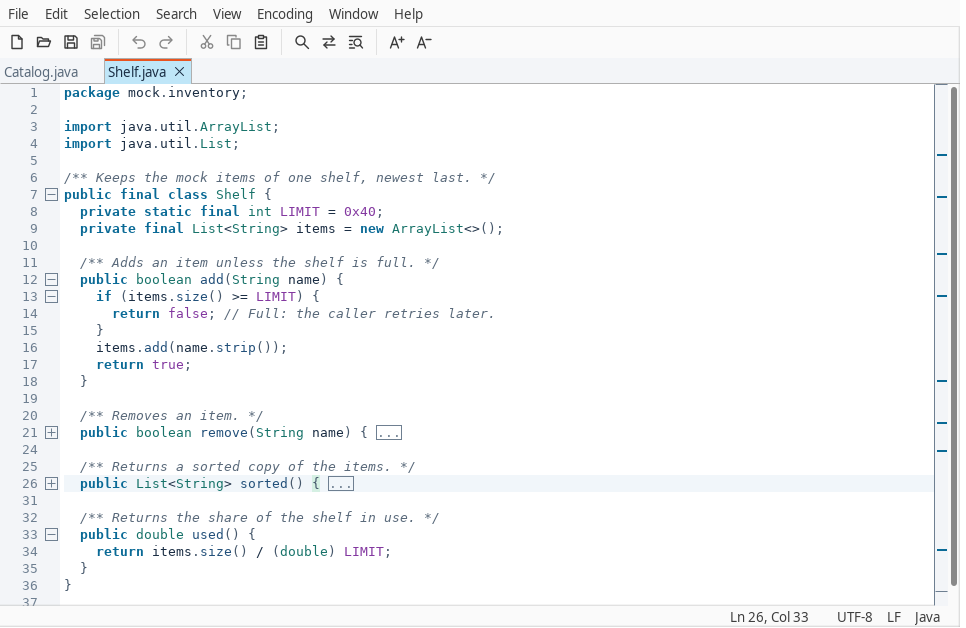
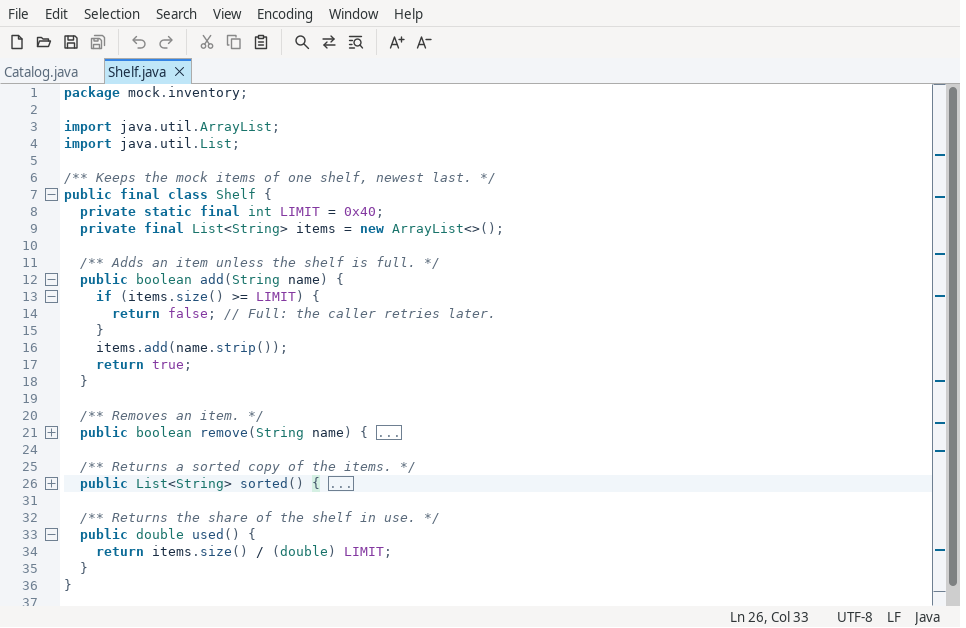
Regenerate the screenshots with the browser and editor display images and bring the Features table and package maps up to date

Changed region(s): [[0.9627, 0.121, 0.9938, 0.9682], [0.1242, 0.0908, 0.1863, 0.121]]

diff --git a/qcaret-ui-swt/src/test/java/io/github/ajdailey/qcaret/ui/swt/GuideScreenshotsTest.java b/qcaret-ui-swt/src/test/java/io/github/ajdailey/qcaret/ui/swt/GuideScreenshotsTest.java
@@ -17,6 +17,7 @@ import io.github.ajdailey.qcaret.app.theme.ThemeMode;
 import io.github.ajdailey.qcaret.app.view.SearchForm;
 import io.github.ajdailey.qcaret.app.view.SearchScope;
 import io.github.ajdailey.qcaret.app.view.WindowGeometry;
+import io.github.ajdailey.qcaret.app.view.WorkspaceNode;
 import io.github.ajdailey.qcaret.core.concurrent.MemoryBudget;
 import io.github.ajdailey.qcaret.core.concurrent.Workers;
 import io.github.ajdailey.qcaret.core.document.Selection;
@@ -38,12 +39,17 @@ import org.eclipse.swt.graphics.Image;
 import org.eclipse.swt.graphics.ImageData;
 import org.eclipse.swt.graphics.ImageLoader;
 import org.eclipse.swt.graphics.Point;
+import org.eclipse.swt.graphics.Rectangle;
 import org.eclipse.swt.widgets.Composite;
 import org.eclipse.swt.widgets.Control;
 import org.eclipse.swt.widgets.Display;
+import org.eclipse.swt.widgets.Event;
+import org.eclipse.swt.widgets.Menu;
 import org.eclipse.swt.widgets.Shell;
 import org.eclipse.swt.widgets.TabFolder;
 import org.eclipse.swt.widgets.Text;
+import org.eclipse.swt.widgets.Tree;
+import org.eclipse.swt.widgets.TreeItem;
 import org.junit.jupiter.api.Tag;
 import org.junit.jupiter.api.Test;
 import org.junit.jupiter.api.condition.EnabledIfSystemProperty;
@@ -51,9 +57,10 @@ import org.junit.jupiter.api.io.TempDir;
 
 /**
  * Writes the user guide's images to {@code -Dqcaret.guide.shots=<dir>} ({@code
- * tools/screenshots.sh}), each painted through {@code Shell.print} from generated mock files. The
- * files are written to {@code -Dqcaret.screenshots.files=<dir>} when given, so the status bar and
- * the dialogs show that path.
+ * tools/screenshots.sh}) from generated mock files, each painted through {@code Shell.print} except
+ * the browser's, which is copied from the screen so its pop-up menu shows. The files are written to
+ * {@code -Dqcaret.screenshots.files=<dir>} when given, so the status bar and the dialogs show that
+ * path.
  */
 @Tag("swt")
 @EnabledIfSystemProperty(named = "qcaret.guide.shots", matches = ".+")
@@ -185,6 +192,7 @@ class GuideScreenshotsTest {
           }
         });
     controller.execute(CommandId.WORKSPACE_BROWSER);
+    window.setSideWeights(new int[] {1, 2});
     controller
         .search()
         .run(
@@ -275,6 +283,25 @@ class GuideScreenshotsTest {
     settle();
     saveDialog("compare.png");
 
+    String edited = editor.document().text().toString();
+    int limit = edited.indexOf("0x40");
+    editor.selections().set(SelectionSet.of(List.of(Selection.of(limit, limit + 4)), 0));
+    editor.type("0x80");
+    editor.goTo(13, 5);
+    controller.execute(CommandId.RIGHT_MARGIN);
+    controller.execute(CommandId.INDENT_GUIDES);
+    controller.execute(CommandId.LINE_CHANGES);
+    final EditorController marked = editor;
+    await(
+        new BooleanSupplier() {
+          @Override
+          public boolean getAsBoolean() {
+            return window.activeEditor().lineChanges().revision() == marked.document().revision();
+          }
+        });
+    settle();
+    save(window.shell(), "guides.png");
+
     controller.execute(CommandId.PREFERENCES);
     Shell preferences = dialog("preferences.png");
     TabFolder tabs = find(preferences, TabFolder.class);
@@ -282,6 +309,119 @@ class GuideScreenshotsTest {
     tabs.setSelection(1);
     settle();
     saveDialog("preferences.png");
+
+    shootBrowser(project);
+  }
+
+  /** Saves the browser with a filter, both columns and the row menu open on a file. */
+  private void shootBrowser(Path project) throws IOException {
+    controller.execute(CommandId.WORKSPACE_BROWSER);
+    window.setSideWeights(new int[] {2, 3});
+    final WorkspaceDock dock = window.workspaceDock();
+    dock.bar().filter().setText("*.java;*.yaml");
+    dock.bar().filter().notifyListeners(SWT.DefaultSelection, new Event());
+    final WorkspaceNode src =
+        new WorkspaceNode(project.toRealPath().resolve("src"), "src", WorkspaceNode.Kind.DIRECTORY);
+    await(
+        new BooleanSupplier() {
+          @Override
+          public boolean getAsBoolean() {
+            return dock.texts(null).contains("src/") && !dock.texts(null).contains("notes.txt");
+          }
+        });
+    dock.expand(src);
+    await(
+        new BooleanSupplier() {
+          @Override
+          public boolean getAsBoolean() {
+            return dock.texts(src).contains("Shelf.java");
+          }
+        });
+    settle();
+    Tree tree = dock.tree();
+    TreeItem shelf = item(tree.getItems(), "Shelf.java");
+    assertNotNull(shelf);
+    tree.setSelection(shelf);
+    Event detect = new Event();
+    detect.detail = SWT.MENU_KEYBOARD;
+    tree.notifyListeners(SWT.MenuDetect, detect);
+    Menu menu = tree.getMenu();
+    assertNotNull(menu);
+    assertTrue(menu.getItem(menu.getItemCount() - 1).getEnabled());
+    Rectangle row = shelf.getBounds();
+    menu.setLocation(
+        tree.toDisplay(row.x + row.width + 8, row.y + tree.getHeaderHeight() + row.height / 2));
+    menu.setVisible(true);
+    settle();
+    capture("browser.png");
+    menu.setVisible(false);
+    settle();
+  }
+
+  /** Returns the row with a text at any depth. */
+  private static TreeItem item(TreeItem[] items, String text) {
+    for (TreeItem item : items) {
+      if (item.getText().equals(text)) {
+        return item;
+      }
+      TreeItem found = item(item.getItems(), text);
+      if (found != null) {
+        return found;
+      }
+    }
+    return null;
+  }
+
+  /**
+   * Copies the main window's area of the screen to a PNG, so an open pop-up menu shows, without the
+   * black rows and columns the shell's estimated trim adds past the window.
+   */
+  private void capture(String name) {
+    Rectangle bounds = window.shell().getBounds();
+    Image image = new Image(display, bounds.width, bounds.height);
+    GC gc = new GC(display);
+    try {
+      gc.copyArea(image, bounds.x, bounds.y);
+    } finally {
+      gc.dispose();
+    }
+    try {
+      ImageData data = image.getImageData();
+      int height = contentHeight(data);
+      int width = contentWidth(data);
+      Image cut = new Image(display, width, height);
+      GC cutGc = new GC(cut);
+      try {
+        cutGc.drawImage(image, 0, 0, width, height, 0, 0, width, height);
+        ImageLoader loader = new ImageLoader();
+        loader.data = new ImageData[] {cut.getImageData()};
+        loader.save(out.resolve(name).toString(), SWT.IMAGE_PNG);
+      } finally {
+        cutGc.dispose();
+        cut.dispose();
+      }
+    } finally {
+      image.dispose();
+    }
+  }
+
+  /** Returns the image's width without the columns at its right that match its last column. */
+  private static int contentWidth(ImageData data) {
+    int[] last = column(data, data.width - 1);
+    for (int x = data.width - 2; x > 0; x--) {
+      if (!Arrays.equals(last, column(data, x))) {
+        return x + 2;
+      }
+    }
+    return data.width;
+  }
+
+  private static int[] column(ImageData data, int x) {
+    int[] pixels = new int[data.height];
+    for (int y = 0; y < data.height; y++) {
+      pixels[y] = data.getPixel(x, y);
+    }
+    return pixels;
   }
 
   private void open(Path file, final int count) {

diff --git a/README.md b/README.md
@@ -19,14 +19,16 @@ alt="QCaret main window with a highlighted Java file" width="880"> </picture>
 
 | Area | Summary | Guide |
 |---|---|---|
-| Editing | Tabs with undo and redo, line commands, case and indent commands, word completion, bracket matching, auto-close, smart indent, sort, duplicate removal and trailing-whitespace trim, read-only documents, a command palette | [Editing](docs/user-guide.md#editing) |
-| Carets | Multiple carets and selections (Mod+click, Mod+drag, a key per row, next occurrence), block selection by Alt+drag or keys, column selection mode | [Multiple carets](docs/user-guide.md#multiple-carets-and-block-selection) |
+| Editing | Tabs with undo and redo, line commands, case and indent commands, Transpose, Delete Word, Wrap Paragraph, word completion, bracket matching, auto-close, smart indent, sort, duplicate removal and trailing-whitespace trim, Insert Date and Time, Document Statistics, read-only documents, a command palette | [Editing](docs/user-guide.md#editing) |
+| Carets | Multiple carets and selections (Mod+click, Mod+drag, a key per row, next occurrence, every occurrence, Skip Occurrence), Expand Selection, Select Line, Undo Selection, block selection by Alt+drag or keys, column selection mode | [Multiple carets](docs/user-guide.md#multiple-carets-and-block-selection) |
 | Encodings | Detection from the byte order mark, a declaration or the content; Reopen with Encoding and Save with Encoding; line-ending conversion; files that would not write back byte for byte open read-only; binary files open read-only after a prompt | [Encodings](docs/user-guide.md#encodings) |
-| Syntax highlighting | 35 languages and 12 file formats, user grammars, comment commands, folding by brackets, markers or indentation | [Syntax highlighting](docs/user-guide.md#syntax-highlighting), [Folding](docs/user-guide.md#folding) |
+| Per-file settings | Tab width, indentation, line ending, encoding and Save cleanup from `.editorconfig` files and vim and Emacs modelines | [Per-file settings](docs/user-guide.md#per-file-settings) |
+| Editor display | Right margin line, indent guides, modified-line marks against the saved text, word wrap, whitespace and line-ending marks, split views | [Main window](docs/user-guide.md#the-main-window) |
+| Syntax highlighting | 35 languages and 12 file formats, user grammars, comment commands, folding by brackets, block keywords, section headers, comments and strings, region markers or indentation | [Syntax highlighting](docs/user-guide.md#syntax-highlighting), [Folding](docs/user-guide.md#folding) |
 | Search and HyperSearch | Find bar with incremental find and history; HyperSearch over a document, a selection, the open documents, the workspace folder or a directory tree, into a results dock that keeps ten sets and marks stale matches | [Search](docs/user-guide.md#search-and-hypersearch) |
 | Replace across files | Replace in a finished result set with a preview, a report per file, backups and a restore | [Replace](docs/user-guide.md#replace) |
 | Bookmarks and navigation | Bookmarks with comments and a Bookmarks list, Go Back and Go Forward, Go to Line, the overview strip | [Bookmarks](docs/user-guide.md#bookmarks), [Main window](docs/user-guide.md#the-main-window) |
-| Workspace and Quick Open | A workspace folder per window with a browser; Quick Open over the open documents, the folder's files and Recent Files; Switch Document; Go to Symbol | [Workspace](docs/user-guide.md#workspace), [Quick Open](docs/user-guide.md#quick-open) |
+| Workspace and Quick Open | A workspace folder per window; a browser that shows any folder, with favorites, a filter, Size and Modified columns, Search in Folder, New File, New Folder, Rename and Delete; Quick Open over the open documents, the folder's files and Recent Files; Switch Document; Go to Symbol | [Workspace](docs/user-guide.md#workspace), [Quick Open](docs/user-guide.md#quick-open) |
 | Compare | Side-by-side read-only comparison of two documents, a document and its file, or two files from the command line | [Compare](docs/user-guide.md#compare) |
 | Printing | Page ranges, copies, the selection, line numbers and syntax colors, in the background | [Printing](docs/user-guide.md#printing) |
 | External changes | Each open file checked on a poll and on window activation; a clean document reloads, a dirty one asks: Keep Mine, Reload or Compare | [External changes](docs/user-guide.md#external-changes) |

diff --git a/qcaret-app/README.md b/qcaret-app/README.md
@@ -15,16 +15,16 @@ is that toolkit and `qcaret-launcher` composes the two.
 | Package | Contents | Detail |
 |---|---|---|
 | `app.cli` | `CommandLineParser`, `CommandLine`, `StartupRequest`, `FileRequest`, `Version` | [Views and commands](docs/views-and-commands.md) |
-| `app.view` | `UiDispatcher`, `MainView` and the views it extends, input models and row types, `StatusFields`, `WindowGeometry` | [Views and commands](docs/views-and-commands.md) |
+| `app.view` | `UiDispatcher`, `MainView` and the views it extends, input models and row types (`WorkspaceBrowseInput`, `WorkspaceFilesInput`, `StatisticsInput`, `StatisticsDisplay`, `StatisticsReport`), `StatusFields`, `WindowGeometry` | [Views and commands](docs/views-and-commands.md) |
 | `app.command`, `app.controller` | `CommandId`, `CommandGroup`, `Keymap`, `KeyStroke`, `MenuTable`, `Fuzzy`; `CommandStates`, `CommandPalette` | [Views and commands](docs/views-and-commands.md) |
 | `app.ipc` | Single-instance lock, endpoint and handoff protocol | [Single instance](docs/single-instance.md) |
 | `app.controller` | `WindowSet`, `ApplicationController`, quit, tab moves | [Windows and tabs](docs/windows-and-tabs.md) |
-| `app.controller`, `app.print` | `DocumentController`, `OpenDocument`, `DocumentOpener`, `SaveAndReload`: open, load, save, reload, encodings, split views; printing | [Documents](docs/documents.md) |
+| `app.controller`, `app.print` | `DocumentController`, `OpenDocument`, `DocumentOpener`, `SaveAndReload`: open, load, save, reload, encodings, split views; `DocumentSettings`, `FileSettingsReader`, `SaveCleanup`: per-file settings; `DocumentsUnder`: open documents under a browser entry; printing | [Documents](docs/documents.md) |
 | `app.controller` | `ExternalChanges`, reload, change prompts, `CompareController` | [External changes](docs/external-changes.md) |
 | `app.controller`, `app.search` | Find bar, HyperSearch, result sets, replace across files | [Search](docs/search.md) |
-| `app.controller` | Workspace folder and browser, file index, Quick Open, navigation history, Recent Files | [Workspace and navigation](docs/workspace-and-navigation.md) |
-| `app.controller` | `EditorController`: edits, carets, folding, bookmarks, completion; overview strip; Bookmarks list | [Editor](docs/editor.md) |
-| `app.editor` | `DisplayProjection`, `FoldLayer`, `HighlightComposer`, `TokenCache`, `SmartIndent`, `ColumnMetrics`, `Bookmarks` | [Display projection](docs/display-projection.md) |
+| `app.controller` | Workspace folder and browser (`WorkspaceBrowse`, `BrowserRows`, `BrowserWindows`, `WorkspaceFiles`, `BrowserPath`, `PathMove`, `WorkspaceFollow`), file index, Quick Open, Go to Symbol (`DocumentSymbols`, `SymbolRows`), navigation history, Recent Files | [Workspace and navigation](docs/workspace-and-navigation.md) |
+| `app.controller` | `EditorController`: edits, carets, folding, bookmarks, completion; `SelectionCommands`, `SelectionHistory`, `DateTimeInsert`, `StatisticsController`, `EditorAids`, `LineChangesUpdater`, `RecoveredBaseline`; overview strip; Bookmarks list | [Editor](docs/editor.md) |
+| `app.editor` | `DisplayProjection`, `FoldLayer`, `HighlightComposer`, `TokenCache`, `SmartIndent`, `ColumnMetrics`, `Bookmarks`, `MergedFoldSource`, `LineChanges`, `TextStatistics` | [Display projection](docs/display-projection.md) |
 | `app.controller` | `GrammarLibrary`, grammar detection, Syntax menu, `SyntaxHighlighter` | [Highlighting](docs/highlighting.md) |
 | `app.config`, `app.controller` | Settings directory, `qcaret.conf`, `Settings`, key binding overrides, the settings keys | [Settings](docs/settings.md) |
 | `app.session`, `app.recovery` | Session file, per-file state, recovery files, quit snapshot | [Sessions and recovery](docs/sessions-and-recovery.md) |

diff --git a/qcaret-core/README.md b/qcaret-core/README.md
@@ -18,15 +18,15 @@ A package uses only lower layers (`ArchitectureTest.coreLayers` in
 | `core.util` | 1 | `Checks`, `Streams`; depends on no other QCaret package | [Files and encodings](docs/files-and-encodings.md#utilities) |
 | `core.concurrent` | 2 | `Workers`, `CancellationToken`, `WorkerThread`, `MemoryBudget` | [Threads and memory](docs/threads-and-memory.md) |
 | `core.io` | 3 | `SafePaths`, `AtomicFiles`, `SafeSave`, `ProcessLock`, `FileStamp`, `FileBaseline`, `Digests`, `BinaryDetector`, `HiddenFiles` | [Files and encodings](docs/files-and-encodings.md) |
-| `core.text` | 4 | `TextEncoding`, `EncodingDetector`, `LineEnding`, `LineEndingStats`, `LogText`, `BoundedChars`; `EditorConfig`, `EditorConfigFile`, `EditorConfigGlob`, `Modelines`, `FileSettings` | [Files and encodings](docs/files-and-encodings.md#encodings) |
+| `core.text` | 4 | `TextEncoding`, `EncodingDetector`, `LineEnding`, `LineEndingStats`, `LogText`, `BoundedChars`; `EditorConfig`, `EditorConfigFile`, `EditorConfigGlob`, `Modelines`, `Modeline`, `FileSettings` | [Files and encodings](docs/files-and-encodings.md#encodings) |
 | `core.buffer` | 5 | `RopeStorage`, `TextSnapshot`, `TextCursor`, `LineView` | [Documents](docs/documents.md#text-storage) |
-| `core.document` | 6 | `Document`, `EditBatch`, `DocumentChange`, undo, selections, anchors, `DocumentFiles` | [Documents](docs/documents.md#document-model) |
-| `core.edit` | 7 | `LineEdits`, `LineTransforms`, `BlockEdits`, `CommentEdits`, `AutoClose`, `Brackets`, `Moves`, `Words`, `WordIndex`, `Occurrences` | [Documents](docs/documents.md#editing-commands) |
-| `core.syntax` | 7 | Grammar reader, compiler, `Tokenizer`, `SyntaxEngine`, `GrammarSet` | [Grammars](docs/grammars.md) |
+| `core.document` | 6 | `Document`, `EditBatch`, `DocumentChange`, undo, selections, anchors, `DocumentFiles`, `TextModelines` | [Documents](docs/documents.md#document-model) |
+| `core.edit` | 7 | `LineEdits`, `LineTransforms`, `BlockEdits`, `CommentEdits`, `AutoClose`, `Brackets`, `Moves`, `Words`, `WordIndex`, `Occurrences`, `CaseEdits`, `WordDeletes`, `Transpose`, `SelectionExpansion`, `ParagraphWrap` | [Documents](docs/documents.md#editing-commands) |
+| `core.syntax` | 7 | Grammar reader, compiler, `Tokenizer`, `SyntaxEngine`, `GrammarSet`, `FoldRegions`, `SymbolScanner`, `SymbolKind` | [Grammars](docs/grammars.md) |
 | `core.search` | 7 | `TextMatcher`, `TextSearch`, `FileSearch`, `FileReplace`, `ReplaceBackups` | [Search](docs/search.md) |
 | `core.diff` | 7 | `LineDiff` | [Search](docs/search.md#line-diff) |
 | `core.watch` | above `io` | `FileCheck`, `FileMonitor` | [External changes](docs/external-changes.md) |
-| `core.workspace` | above `io` | `WalkRules`, `DirectoryListing`, `ListingOptions`, `NameFilter`, `FileIndex` | [Search](docs/search.md#workspace-folder) |
+| `core.workspace` | above `io` | `WalkRules`, `DirectoryListing`, `ListingOptions`, `NameFilter`, `FileIndex`, `FileOperations`, `HomeFolder` | [Search](docs/search.md#workspace-folder) |
 
 The layer 7 packages do not use each other.
 

diff --git a/qcaret-ui-swt/README.md b/qcaret-ui-swt/README.md
@@ -12,9 +12,9 @@ fragment, and uses public SWT API only.
 | Package | Contents | Detail |
 |---|---|---|
 | `ui.swt` | `MainWindow`, `MainMenuBar`, `MainToolBar`, `EditorMenu`, `AppMenu`, status bar, `ProgressRow`, file drop | [Main window](docs/main-window.md) |
-| `ui.swt` | Prompts, `ShortcutsWindow`, `PreferencesDialog`, `RecoveryDialog`, `CommandPaletteWindow`, `QuickOpenWindow`, `WorkspaceDock`, `FindBar`, `SearchDialog`, `BookmarksDock`, `ChangeDialog`, `DiffWindow`, `GuideWindow` | [Dialogs and docks](docs/dialogs-and-docks.md) |
+| `ui.swt` | Prompts, `ShortcutsWindow`, `PreferencesDialog`, `RecoveryDialog`, `CommandPaletteWindow`, `QuickOpenWindow`, `WorkspaceDock`, `BrowseBar`, `FileNameDialog`, `DeleteDialog`, `StatisticsDialog`, `DateFormatChooser`, `FindBar`, `SearchDialog`, `BookmarksDock`, `ChangeDialog`, `DiffWindow`, `GuideWindow` | [Dialogs and docks](docs/dialogs-and-docks.md) |
 | `ui.swt.search` | `ResultsDock`, `ResultRows`, `ReplaceDialog`, `ReportWindow`, `RunChooser` | [Dialogs and docks](docs/dialogs-and-docks.md#results-dock) |
-| `ui.swt.editor` | `EditorPane`, `ContentAdapter`, `EditorGestures`, `EditorLayout`, `CaretInk`, `CompletionPopup`, `OverviewStrip` | [Editor pane](docs/editor.md) |
+| `ui.swt.editor` | `EditorPane`, `ContentAdapter`, `EditorGestures`, `EditorLayout`, `CaretInk`, `CompletionPopup`, `OverviewStrip`, `MarginPainter`, `IndentGuidePainter`, `LineChangePainter` | [Editor pane](docs/editor.md) |
 | `ui.swt` | `PrintJob` and the printer calls | [Printing](docs/printing.md) |
 | `ui.swt` | `SwtThemeService`, `CocoaChrome`, tab colors, `ToolIcons`, `MenuIcons`, the tool icon set | [Theme and icons](docs/theme-and-icons.md) |
 

diff --git a/docs/user-guide.md b/docs/user-guide.md
@@ -171,6 +171,9 @@ apply (measured on Linux, one million lines):
 - The editor shows line numbers, bookmark and fold marks in its gutter. View >
   Word Wrap, Show Whitespace, Show Line Endings, Overview Strip and Line Numbers
   apply to the window's editors. Zoom is `Ctrl+=`, `Ctrl+-` and `Ctrl+0`.
+
+![The editor with the right margin, indent guides and modified-line marks](images/guide/guides.png)
+
 - View > Right Margin draws a line after column 80 in every editor, also with
   word wrap on; Preferences, Editor sets another column. The choice is saved.
 - View > Indent Guides draws a faint line at each indent level of a line's
@@ -433,6 +436,8 @@ A save that finds the file changed asks: Overwrite, Reload, Compare or Cancel.
 Preferences, Files sets the interval and can make a clean document ask too.
 
 ## Workspace
+
+![The workspace browser with a filter, the Size and Modified columns and a row's menu](images/guide/browser.png)
 
 File > Set Workspace Folder gives each window one folder, the scope of
 HyperSearch's Workspace folder and of Quick Open's file list. View > Workspace
